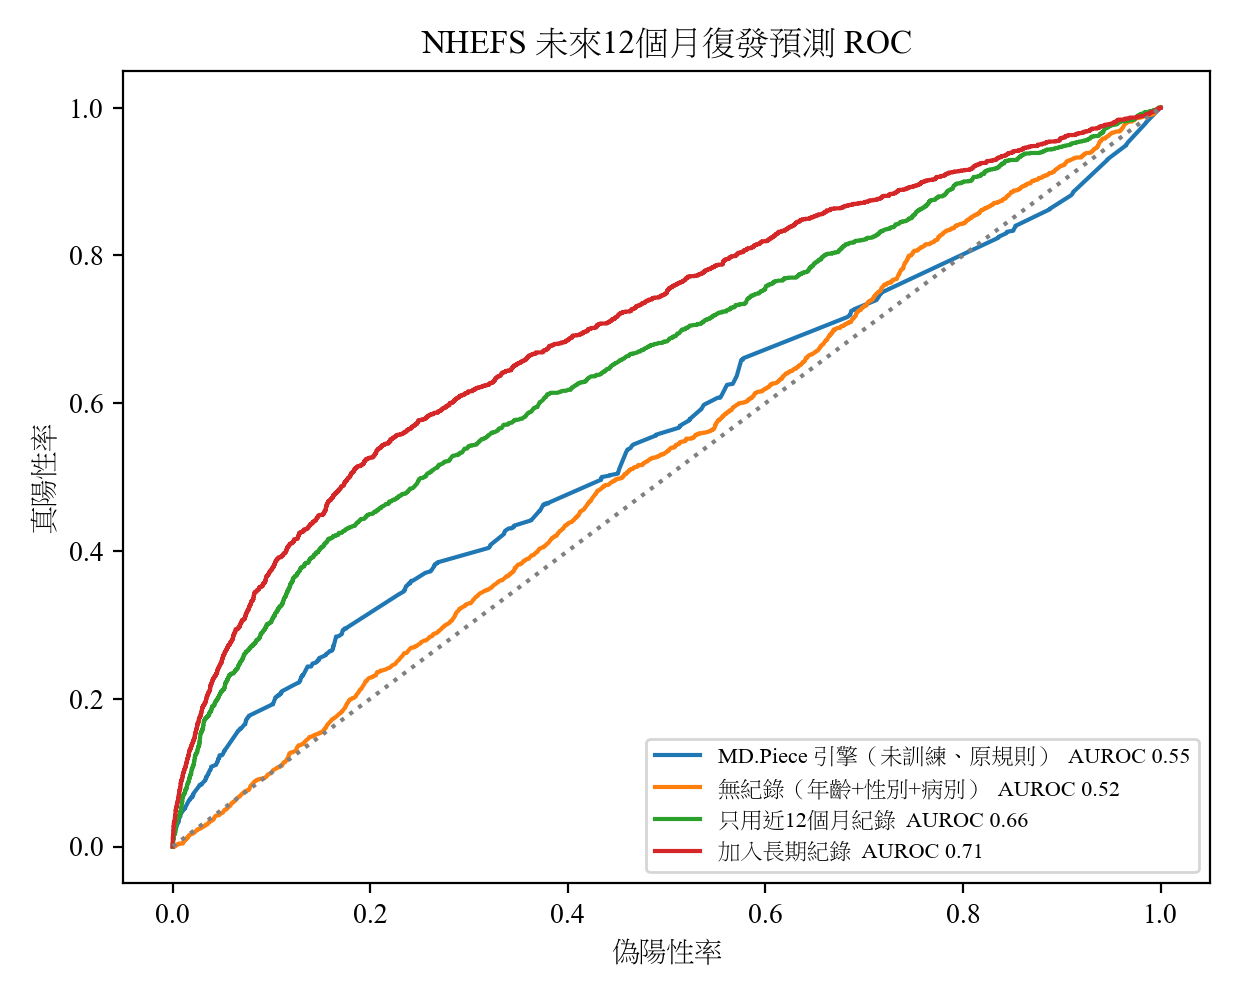
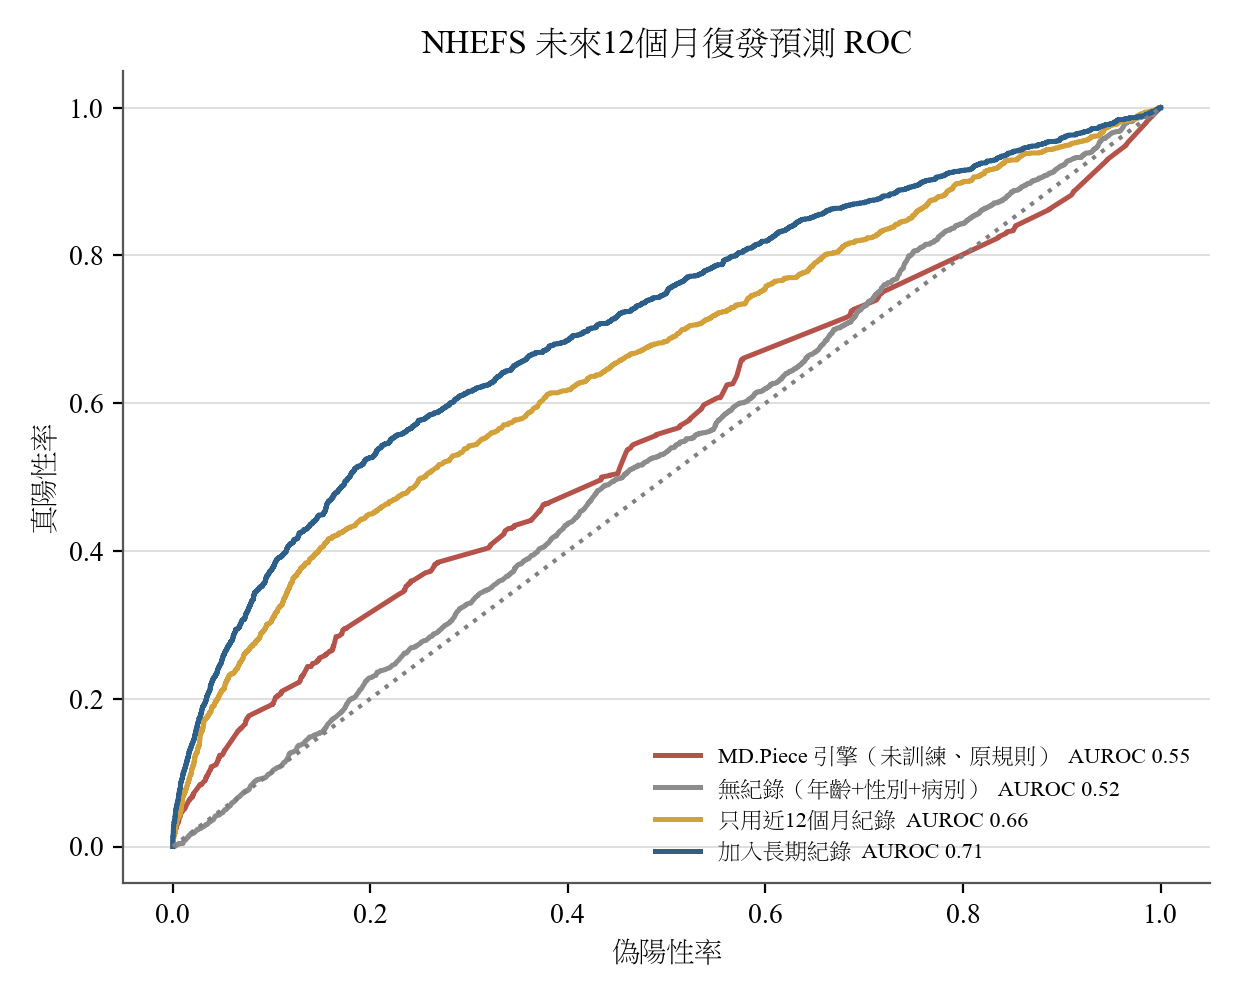
figures: 11 張數據圖統一配色與版型（與 FigureLabs 版圖一、圖二一致）
- 深藍＝長期紀錄模型、磚紅＝MD.Piece 引擎、綠／金／紅＝風險低／中／高；去上右框、淡橫格線
- 圖四 x 軸疾病名「COPD／氣喘」改為「COPD 或氣喘」
- 數字不變（results*.json 未變動）

diff --git a/experiments/chronic_recurrence_longitudinal/run.py b/experiments/chronic_recurrence_longitudinal/run.py
@@ -68,6 +68,11 @@ DRIVERS = [
     {"maps_to": "labs", "weight": "high", "evidence": "血壓、膽固醇、血糖、肥胖為心血管事件的經典風險因子（Framingham）。"},
 ]
 EPOCH = datetime(1950, 1, 1)
+PALETTE = {"navy": "#2d5f8b", "brick": "#b5524a", "gold": "#d4a03a", "green": "#5b8e6d", "grey": "#8c8c8c"}
+MODEL_COLOR = {"MD.Piece 引擎（未訓練、原規則）": PALETTE["brick"], "無紀錄（年齡+性別+病別）": PALETTE["grey"],
+               "只用近12個月紀錄": PALETTE["gold"], "加入長期紀錄": PALETTE["navy"]}
+BAND_COLOR = {"low": PALETTE["green"], "medium": PALETTE["gold"], "high": PALETTE["brick"],
+              "低": PALETTE["green"], "中": PALETTE["gold"], "高": PALETTE["brick"]}
 
 
 def use_doc_fonts(plt):
@@ -80,6 +85,12 @@ def use_doc_fonts(plt):
     fm.fontManager.addfont(ttf)
     plt.rcParams["font.family"] = ["Times New Roman", "PMingLiU"]
     plt.rcParams["axes.unicode_minus"] = False
+    # 版型與圖一、圖二一致：去上右框、淡橫格線、固定配色
+    from cycler import cycler
+    plt.rcParams.update({"axes.spines.top": False, "axes.spines.right": False, "axes.grid": True,
+                         "axes.grid.axis": "y", "grid.color": "#d9d9d9", "grid.linewidth": 0.6,
+                         "axes.axisbelow": True, "axes.edgecolor": "#555555", "axes.titlesize": 12,
+                         "legend.frameon": False, "axes.prop_cycle": cycler(color=list(PALETTE.values()))})
 
 
 def save_plot_data(name, df):
@@ -420,7 +431,7 @@ def analyze():
     grid01 = np.linspace(0, 1, 101)
     for name, s in [("MD.Piece 引擎（未訓練、原規則）", lm.engine_risk.values)] + list(preds.items()):
         fpr, tpr, _ = roc_curve(y, s)
-        ax.plot(fpr, tpr, label=f"{name}  AUROC {aucs[name][0]:.2f}")
+        ax.plot(fpr, tpr, color=MODEL_COLOR[name], lw=1.8, label=f"{name}  AUROC {aucs[name][0]:.2f}")
         roc_rows.append(pd.DataFrame({"模型": name, "AUROC": round(aucs[name][0], 3), "偽陽性率": grid01,
                                       "真陽性率": np.interp(grid01, fpr, tpr)}))
     save_plot_data("圖三_NHEFS_ROC", pd.concat(roc_rows))
@@ -436,7 +447,7 @@ def analyze():
         m = first.engine_band == b
         if m.sum() >= 5:
             km.fit(first.t[m], first.e[m], label=f"{names[b]} n={int(m.sum())}")
-            km.plot_cumulative_density(ax=ax, ci_show=False)
+            km.plot_cumulative_density(ax=ax, ci_show=False, color=BAND_COLOR[b], lw=1.8)
             kmB.append(km_table(km, names[b], int(m.sum())))
     save_plot_data("圖六_引擎分級與下一次復發時機", pd.concat(kmB))
     ax.set_xlabel("確診滿1年後經過年數"); ax.set_ylabel("累積復發比例"); ax.set_title(f"引擎分級與確診滿1年後的下一次復發時機（log-rank p={lr.p_value:.3g}）")
@@ -449,16 +460,16 @@ def analyze():
     save_plot_data("圖四_四種慢性病AUROC", pd.DataFrame(
         [{"疾病": d, "模型": mname, "AUROC": v[0], "下限": v[1], "上限": v[2]}
          for d in names_d for mname, v in (("MD.Piece 引擎", per[d]["engine_auc"]), ("加入長期紀錄模型", per[d]["longterm_auc"]))]))
-    ax.bar(xs - 0.18, [v[0] for v in e], 0.36, yerr=[[v[0] - v[1] for v in e], [v[2] - v[0] for v in e]], label="MD.Piece 引擎", capsize=3)
-    ax.bar(xs + 0.18, [v[0] for v in l], 0.36, yerr=[[v[0] - v[1] for v in l], [v[2] - v[0] for v in l]], label="加入長期紀錄模型", capsize=3)
-    ax.axhline(0.5, ls=":", c="grey"); ax.set_xticks(xs); ax.set_xticklabels(names_d); ax.set_ylim(0.3, 1)
+    ax.bar(xs - 0.18, [v[0] for v in e], 0.36, yerr=[[v[0] - v[1] for v in e], [v[2] - v[0] for v in e]], label="MD.Piece 引擎", capsize=3, color=PALETTE["brick"])
+    ax.bar(xs + 0.18, [v[0] for v in l], 0.36, yerr=[[v[0] - v[1] for v in l], [v[2] - v[0] for v in l]], label="加入長期紀錄模型", capsize=3, color=PALETTE["navy"])
+    ax.axhline(0.5, ls=":", c="grey"); ax.set_xticks(xs); ax.set_xticklabels([d.replace("／", " 或 ") for d in names_d]); ax.set_ylim(0.3, 1)
     ax.set_ylabel("AUROC（95% CI）"); ax.set_title("四種慢性病的復發預測鑑別力"); ax.legend(fontsize=8)
     fig.tight_layout(); fig.savefig(os.path.join(OUT, "figC_nhefs_per_disease.png"), dpi=200); plt.close(fig)
 
     fig, ax = plt.subplots(figsize=(6.2, 3.8))
     qs = res["nhefs_longterm_quintile_rate"]
     save_plot_data("圖五_風險五分組復發率", pd.DataFrame({"風險五分位": range(1, len(qs) + 1), "實際12個月復發率百分比": [round(v * 100, 1) for v in qs]}))
-    ax.bar(range(1, len(qs) + 1), [v * 100 for v in qs], color="#4a7bb7")
+    ax.bar(range(1, len(qs) + 1), [v * 100 for v in qs], color=PALETTE["navy"])
     for i, v in enumerate(qs):
         ax.text(i + 1, v * 100 + 0.5, f"{v*100:.1f}%", ha="center", fontsize=9)
     ax.set_xlabel("長期紀錄模型預測風險五分位（1 最低 → 5 最高）"); ax.set_ylabel("實際12個月復發率（%）")
@@ -469,7 +480,7 @@ def analyze():
         m = fr.engine_band == b
         if m.sum() >= 5:
             km.fit(fr.time_years[m], fr.event[m], label=f"{names[b]} n={int(m.sum())}")
-            km.plot_cumulative_density(ax=ax, ci_show=False)
+            km.plot_cumulative_density(ax=ax, ci_show=False, color=BAND_COLOR[b], lw=1.8)
             kmE.append(km_table(km, names[b], int(m.sum())))
     save_plot_data("圖九_Framingham引擎分級與心血管事件", pd.concat(kmE))
     ax.set_xlabel("第2次檢查後經過年數"); ax.set_ylabel("累積心血管事件比例")
@@ -480,7 +491,7 @@ def analyze():
     for t_ in ("低", "中", "高"):
         m = first.lt_tertile == t_
         km.fit(first.t[m], first.e[m], label=f"長期紀錄風險{t_}三分之一 n={int(m.sum())}")
-        km.plot_cumulative_density(ax=ax, ci_show=False)
+        km.plot_cumulative_density(ax=ax, ci_show=False, color=BAND_COLOR[t_], lw=1.8)
         kmF.append(km_table(km, f"長期紀錄風險{t_}", int(m.sum())))
     save_plot_data("探索_長期紀錄風險三分組與復發時機", pd.concat(kmF))
     ax.set_xlabel("確診滿1年後經過年數"); ax.set_ylabel("累積復發比例")

diff --git a/experiments/chronic_recurrence_longitudinal/twin_redraw.py b/experiments/chronic_recurrence_longitudinal/twin_redraw.py
@@ -36,7 +36,7 @@ def run_original(name):
 
 ARMS = ["GROUND_TRUTH", "MDPIECE", "PATIENT_RECALL"]
 ZH = {"GROUND_TRUTH": "真相（上限）", "MDPIECE": "MD. Piece 紀錄", "PATIENT_RECALL": "病人回憶"}
-COL = {"GROUND_TRUTH": "#3a7d44", "MDPIECE": "#2f6fae", "PATIENT_RECALL": "#b5524a"}
+COL = {"GROUND_TRUTH": base.PALETTE["green"], "MDPIECE": base.PALETTE["navy"], "PATIENT_RECALL": base.PALETTE["brick"]}
 
 
 def main():
@@ -89,7 +89,7 @@ def main():
     pd.DataFrame({"feature": top.index, "coef": top.values}).to_csv(os.path.join(OUT, "top_features_mdpiece.csv"), index=False)
     base.save_plot_data("圖十二_主要預測特徵", pd.DataFrame({"特徵": [FEAT.get(n, n) for n in top.index], "標準化係數": top.values}))
     fig, ax = plt.subplots(figsize=(6.6, 5))
-    ax.barh(range(len(top)), top.values, color=["#b5524a" if v < 0 else "#3a7d44" for v in top.values])
+    ax.barh(range(len(top)), top.values, color=[base.PALETTE["brick"] if v < 0 else base.PALETTE["navy"] for v in top.values])
     ax.set_yticks(range(len(top))); ax.set_yticklabels([FEAT.get(n, n) for n in top.index], fontsize=8)
     ax.axvline(0, c="k", lw=0.8); ax.set_xlabel("標準化係數（正值推升風險，負值降低風險）")
     ax.set_title("只用就診間紀錄時影響預測最大的特徵（MD. Piece 紀錄）")
@@ -97,9 +97,9 @@ def main():
 
     Cd = C["C"]
     fig, ax = plt.subplots(figsize=(7.0, 4.2)); xp = np.arange(len(ARMS))
-    ax.bar(xp - 0.27, Cd.short_auroc, 0.27, label="短期惡化預測 AUROC", color="#888888")
-    ax.bar(xp, Cd.clue_retention, 0.27, label="感染線索保留率", color="#3a7d44")
-    ax.bar(xp + 0.27, Cd.infection_attribution_sensitivity, 0.27, label="模型指認感染為主因的比例", color="#d98ca0")
+    ax.bar(xp - 0.27, Cd.short_auroc, 0.27, label="短期惡化預測 AUROC", color=base.PALETTE["grey"])
+    ax.bar(xp, Cd.clue_retention, 0.27, label="感染線索保留率", color=base.PALETTE["navy"])
+    ax.bar(xp + 0.27, Cd.infection_attribution_sensitivity, 0.27, label="模型指認感染為主因的比例", color=base.PALETTE["gold"])
     for i, v in enumerate(Cd.clue_retention):
         ax.text(i, v + 0.02, f"{v*100:.0f}%", ha="center", fontsize=9)
     ax.set_xticks(xp); ax.set_xticklabels([ZH[a] for a in ARMS]); ax.set_ylim(0, 1.1)

diff --git a/experiments/chronic_recurrence_longitudinal/run_usage_years.py b/experiments/chronic_recurrence_longitudinal/run_usage_years.py
@@ -199,7 +199,7 @@ def main():
     calib = {}
     tl_rows = []
     fig, ax = plt.subplots(figsize=(6.4, 4.4))
-    colors = {"低": "#3a7d44", "中": "#d08c2e", "高": "#c0392b"}
+    colors = base.BAND_COLOR
     for t_ in ("低", "中", "高"):
         m = np.asarray(tert == t_)
         km.fit(fd.time[m], fd.event[m])
@@ -228,9 +228,9 @@ def main():
          "隨機標記預警成功率百分比": TOP * 100} for r in res["usage"]]))
     fig, ax1 = plt.subplots(figsize=(6.4, 4.2))
     ax1.errorbar(u.years, [a[0] for a in u.auc], yerr=[[a[0] - a[1] for a in u.auc], [a[2] - a[0] for a in u.auc]],
-                 marker="o", capsize=3, label="長期紀錄模型 AUROC")
+                 marker="o", capsize=3, color=base.PALETTE["navy"], label="長期紀錄模型 AUROC")
     e = u.dropna(subset=["engine_auc"]) if "engine_auc" in u else u.iloc[0:0]
-    ax1.plot(e.years, [a[0] for a in e.engine_auc], marker="s", ls="--", label="MD.Piece 引擎 AUROC")
+    ax1.plot(e.years, [a[0] for a in e.engine_auc], marker="s", ls="--", color=base.PALETTE["brick"], label="MD.Piece 引擎 AUROC")
     ax1.axhline(0.5, ls=":", c="grey"); ax1.set_ylim(0.45, 0.8)
     ax1.set_xlabel("App 已使用年數（模型可看到的紀錄長度）"); ax1.set_ylabel("AUROC（95% CI）")
     ax1.set_xticks(KS); ax1.legend(fontsize=8, loc="lower right")
@@ -238,8 +238,8 @@ def main():
     fig.savefig(os.path.join(OUT, "figG_usage_years_auc.png"), dpi=200); plt.close(fig)
 
     fig, ax = plt.subplots(figsize=(6.4, 3.8))
-    ax.bar(u.years - 0.2, u.sensitivity * 100, 0.4, label="預警成功率（復發者事先被標出）")
-    ax.bar(u.years + 0.2, u.ppv * 100, 0.4, label="命中率（被標出者真的復發）")
+    ax.bar(u.years - 0.2, u.sensitivity * 100, 0.4, label="預警成功率（復發者事先被標出）", color=base.PALETTE["navy"])
+    ax.bar(u.years + 0.2, u.ppv * 100, 0.4, label="命中率（被標出者真的復發）", color=base.PALETTE["gold"])
     ax.axhline(TOP * 100, ls=":", c="grey", label="隨機標 20% 的預警成功率")
     ax.set_xticks(KS); ax.set_xlabel("App 已使用年數"); ax.set_ylabel("%")
     ax.set_ylim(0, 75); ax.set_title("標出風險最高 20% 時的預警成功率與命中率")
